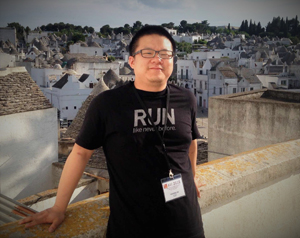
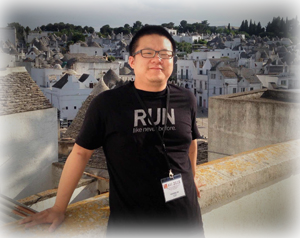
update for wall paper

Changed region(s): [[0.0, 0.0, 1.0, 1.0]]

diff --git a/index.html b/index.html
@@ -95,8 +95,8 @@
 <header>
     <div class="container">
         <div class="row">
-            <div class="col-lg-12">
-                <img class="img-responsive" src="img/self_small.png" alt="">
+            <div class="col-lg-10 col-lg-push-1">
+                <img class="img-responsive" src="img/wall.jpg" alt="">
                 <div class="intro-text">
                     <span class="name">YUCHENG JIN</span>
                     <!--<hr class="star-light">-->
